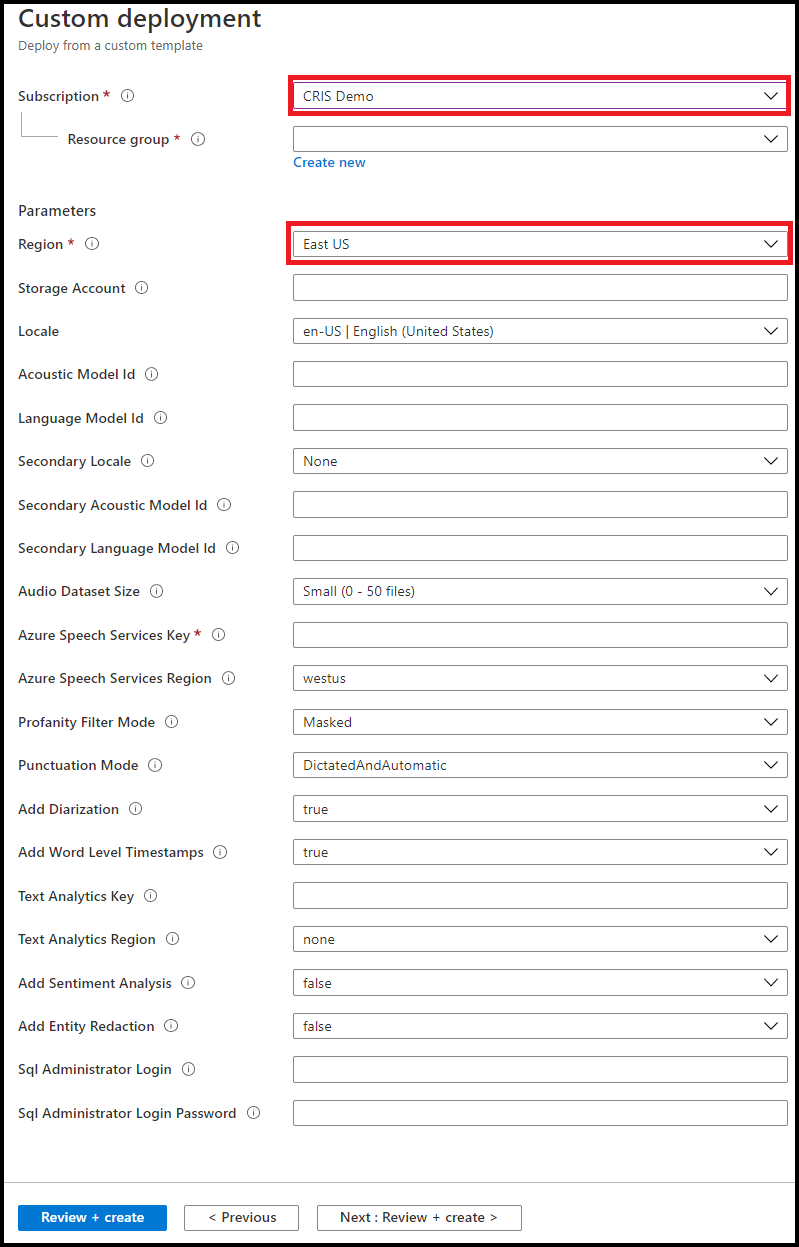
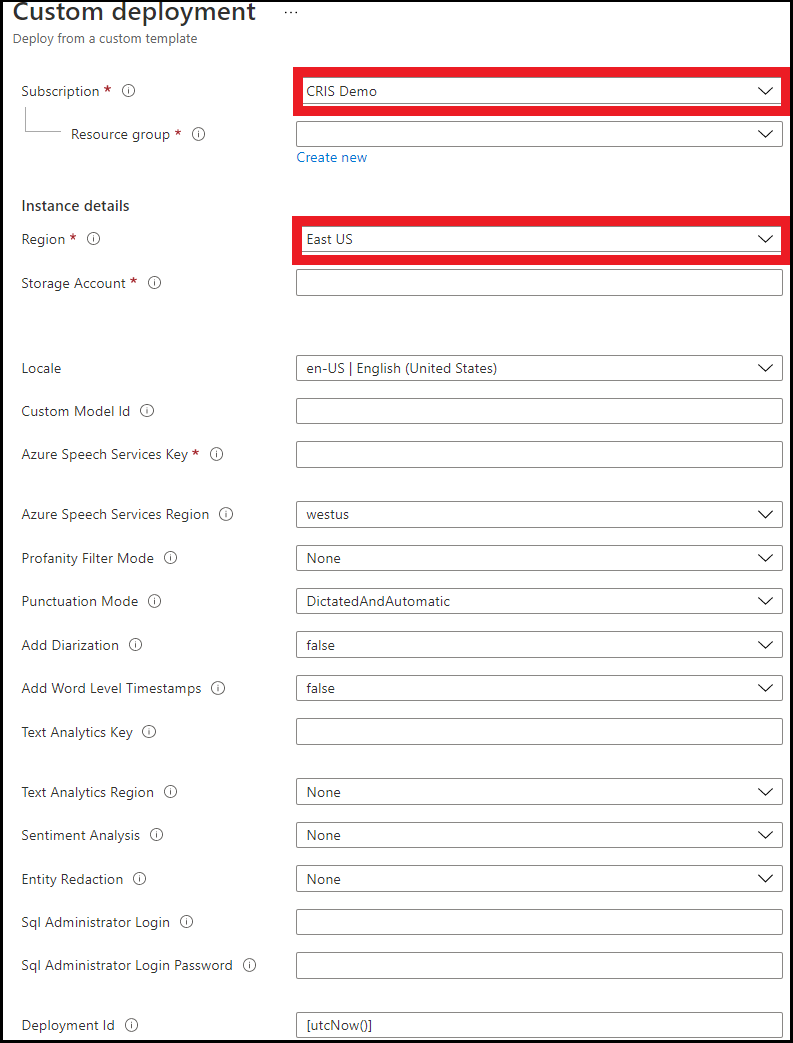
updated diagrams and text

Changed region(s): [[0.3329, 0.0614, 0.9987, 0.9511], [0.0, 0.6136, 0.9987, 1.0], [0.0, 0.0, 0.3329, 0.5829]]

diff --git a/samples/batch/batch-ingestion-client/Setup/guide.md b/samples/batch/batch-ingestion-client/Setup/guide.md
@@ -2,11 +2,11 @@
 
 Get your audio files automatically transcribed without writing any code what-so-ever! The Batch Ingestion Client will monitor your dedicated Azure Storage container so that new audio files are transcribed automatically as soon as they land.
 
-The simplest way to explain this tech is as a zero-touch transcription solution for all your audio files in your Azure Storage. If you are looking for a quick and effortless way to transcribe your audio files or even explore transcription, without writing any code, then this solution is for you. Through an ARM template deployment, all the resources necessary to seamlessly process your audio files are set-up and set in motion.
+The simplest way to explain this tech is as a zero-touch transcription solution for all your audio files in your Azure Storage. If you are looking for a quick and effortless way to transcribe your audio files or even explore transcription, then this solution is for you. 
 
-# Why do I need this?
+We created an ingestion layer (a client for batch transcription) that will help you set-up a full blown, scalable and secure transcription pipeline and through an ARM template deployment, all the resources necessary to seamlessly process your audio files are set-up and set in motion.
 
-Getting started with any API requires some amount of time investment in learning the API, understanding its scope, and getting value through trial and error. In order to speed up your transcription solution, for those of you that do not have the time to invest in getting to know our API or related best practices, we created an ingestion layer (a client for batch transcription) that will help you set-up a full blown, scalable and secure transcription pipeline without writing any code. 
+# Architecture
 
 This is a smart client in the sense that it implements best practices and optimized against the capabilities of the Azure Speech infrastructure. It utilizes Azure resources such as Service Bus and Azure Functions to orchestrate transcription requests to Azure Speech Services from audio files landing in your dedicated storage containers. Do you need more than transcription? Do you need to applly Sentiment to your transcript? Downstream analytics are possible too, with Text Analytics Sentiment and Redaction being offered as part of this solution too. 
 
@@ -97,19 +97,15 @@ resources within the same resource group so we suggest you create a new resource
 
 The following settings all relate to the resources and their attributes
 
-
 * Give your storage account a name [you will be using a new storage
 account rather than an existing one].
 
 The following 2 steps are optional. Omitting them will result in using the base model to obtain
 transcripts. If you have created a Speech model, then
 
+* Enter optionally an Acoustic model
 
-* Enter optionally your primary Acoustic model
-
-* Enter optionally your primaty Language model
-
-If you want us to perform Language identification on the audio prior to transcription you can also specify a secondary locale. Our service will check if the language on the audio content is the primary or secondary locale and select the right model for transcription. 
+* Enter optionally a Language model
 
 Transcripts are obtained by polling the service. We acknowledge that there is a cost related to that.
 So, the following setting gives you the option to limit that cost by telling your Azure Function how
@@ -121,7 +117,6 @@ done couple of times a day]
 
 * Enter locale of the audio [you need to tell us what language model we need to use to
 transcribe your audio.]
-
 
 * Enter your Azure Speech subscription key and Locale information
 
